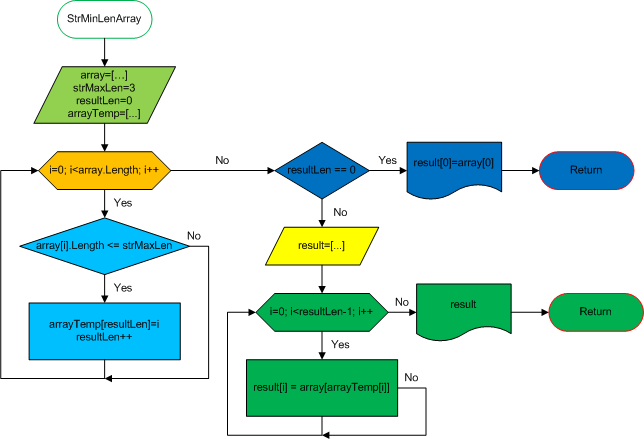
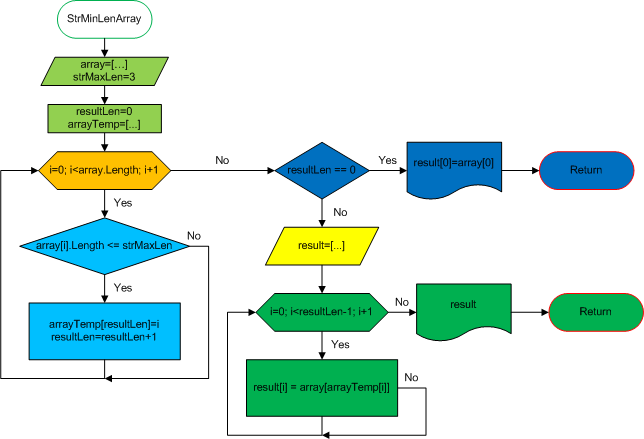
Add metod StrMinLenArray

Changed region(s): [[0.0311, 0.1185, 0.2795, 0.3257], [0.0932, 0.7403, 0.2484, 0.7995], [0.1242, 0.385, 0.2174, 0.4146]]

diff --git a/Program.cs b/Program.cs
@@ -41,17 +41,25 @@ while (true)
 void TaskStr(bool autoArray = false)
 {
     int num = SetNumber("Введите количество элементов массива:");
+    int strLen = 3;
+
+    string[] arrayStart = new string[num];
 
     if (autoArray)
     {
-        string[] array = AutoArrayComplet(num);
+        arrayStart = AutoArrayComplet(num);
     }
     else
     {
-        string[] array = ManualArrayComplet(num);
+        arrayStart = ManualArrayComplet(num);
     }
 
-    //Console.WriteLine($"Начальный массив: [{string.Join(", ", array)}]");
+    Console.WriteLine($"Начальный массив: [{string.Join(", ", arrayStart)}]");
+
+    string[] arrayResult = StrMinLenArray(arrayStart, strLen);
+
+    Console.WriteLine($"Итоговый массив: [{string.Join(", ", arrayResult)}]");
+
     Console.WriteLine("Нажмите любую клавишу для продолжения");
     Console.ReadKey();
 }
@@ -95,6 +103,33 @@ string[] AutoArrayComplet(int size)
     }
 
     return array;
+}
+
+
+
+string[] StrMinLenArray(string[] array, int strMaxLen)
+{
+    int resultLen = 0;
+    int[] arrayTemp = new int[array.Length];
+
+    for (int i = 0; i < array.Length; i++)
+    {
+        if (array[i].Length <= strMaxLen)
+        {
+            arrayTemp[resultLen] = i;
+            resultLen++;
+        }
+    }
+
+    string[] result = new string[resultLen];
+
+    for (int i = 0; i < resultLen; i++)
+    {
+        result[i] = array[arrayTemp[i]];
+    }
+
+    return result;
+
 }
 
 

diff --git a/README.md b/README.md
@@ -60,9 +60,8 @@
 В первом цикле осуществляется проверка всех элементов заданного массива на соответствие их длины заданным параметрам.
 Индексы найденных элементов последовательно заносятся в массив *arrayTemp[]*, при этом ведётся подсчёт найденных элементов посредством переменной *resultLen*.
 
-Далее проверяется значение *resultLen*. Если ни одного элемента соответствующего заданным условиям найдено не было, метод возвращает массив единичной длины, с заведомо неправильным значением, в качестве которого используется значение нулевого элемента стартового массива.
-
-При наличии найденных элементов, их копируют, посредством второго цикла, из стартового в результирующий массив. После чего метод возвращает полученный массив *result*.
+Далее объяыляется массив *result* длиной *resultLen*, который заполняется элементами стартового массива, посредством второго цикла.
+После чего метод возвращает полученный массив *result*.
 
 Блок-схема данного алгоритма представлена ни рисунке ниже.
 
